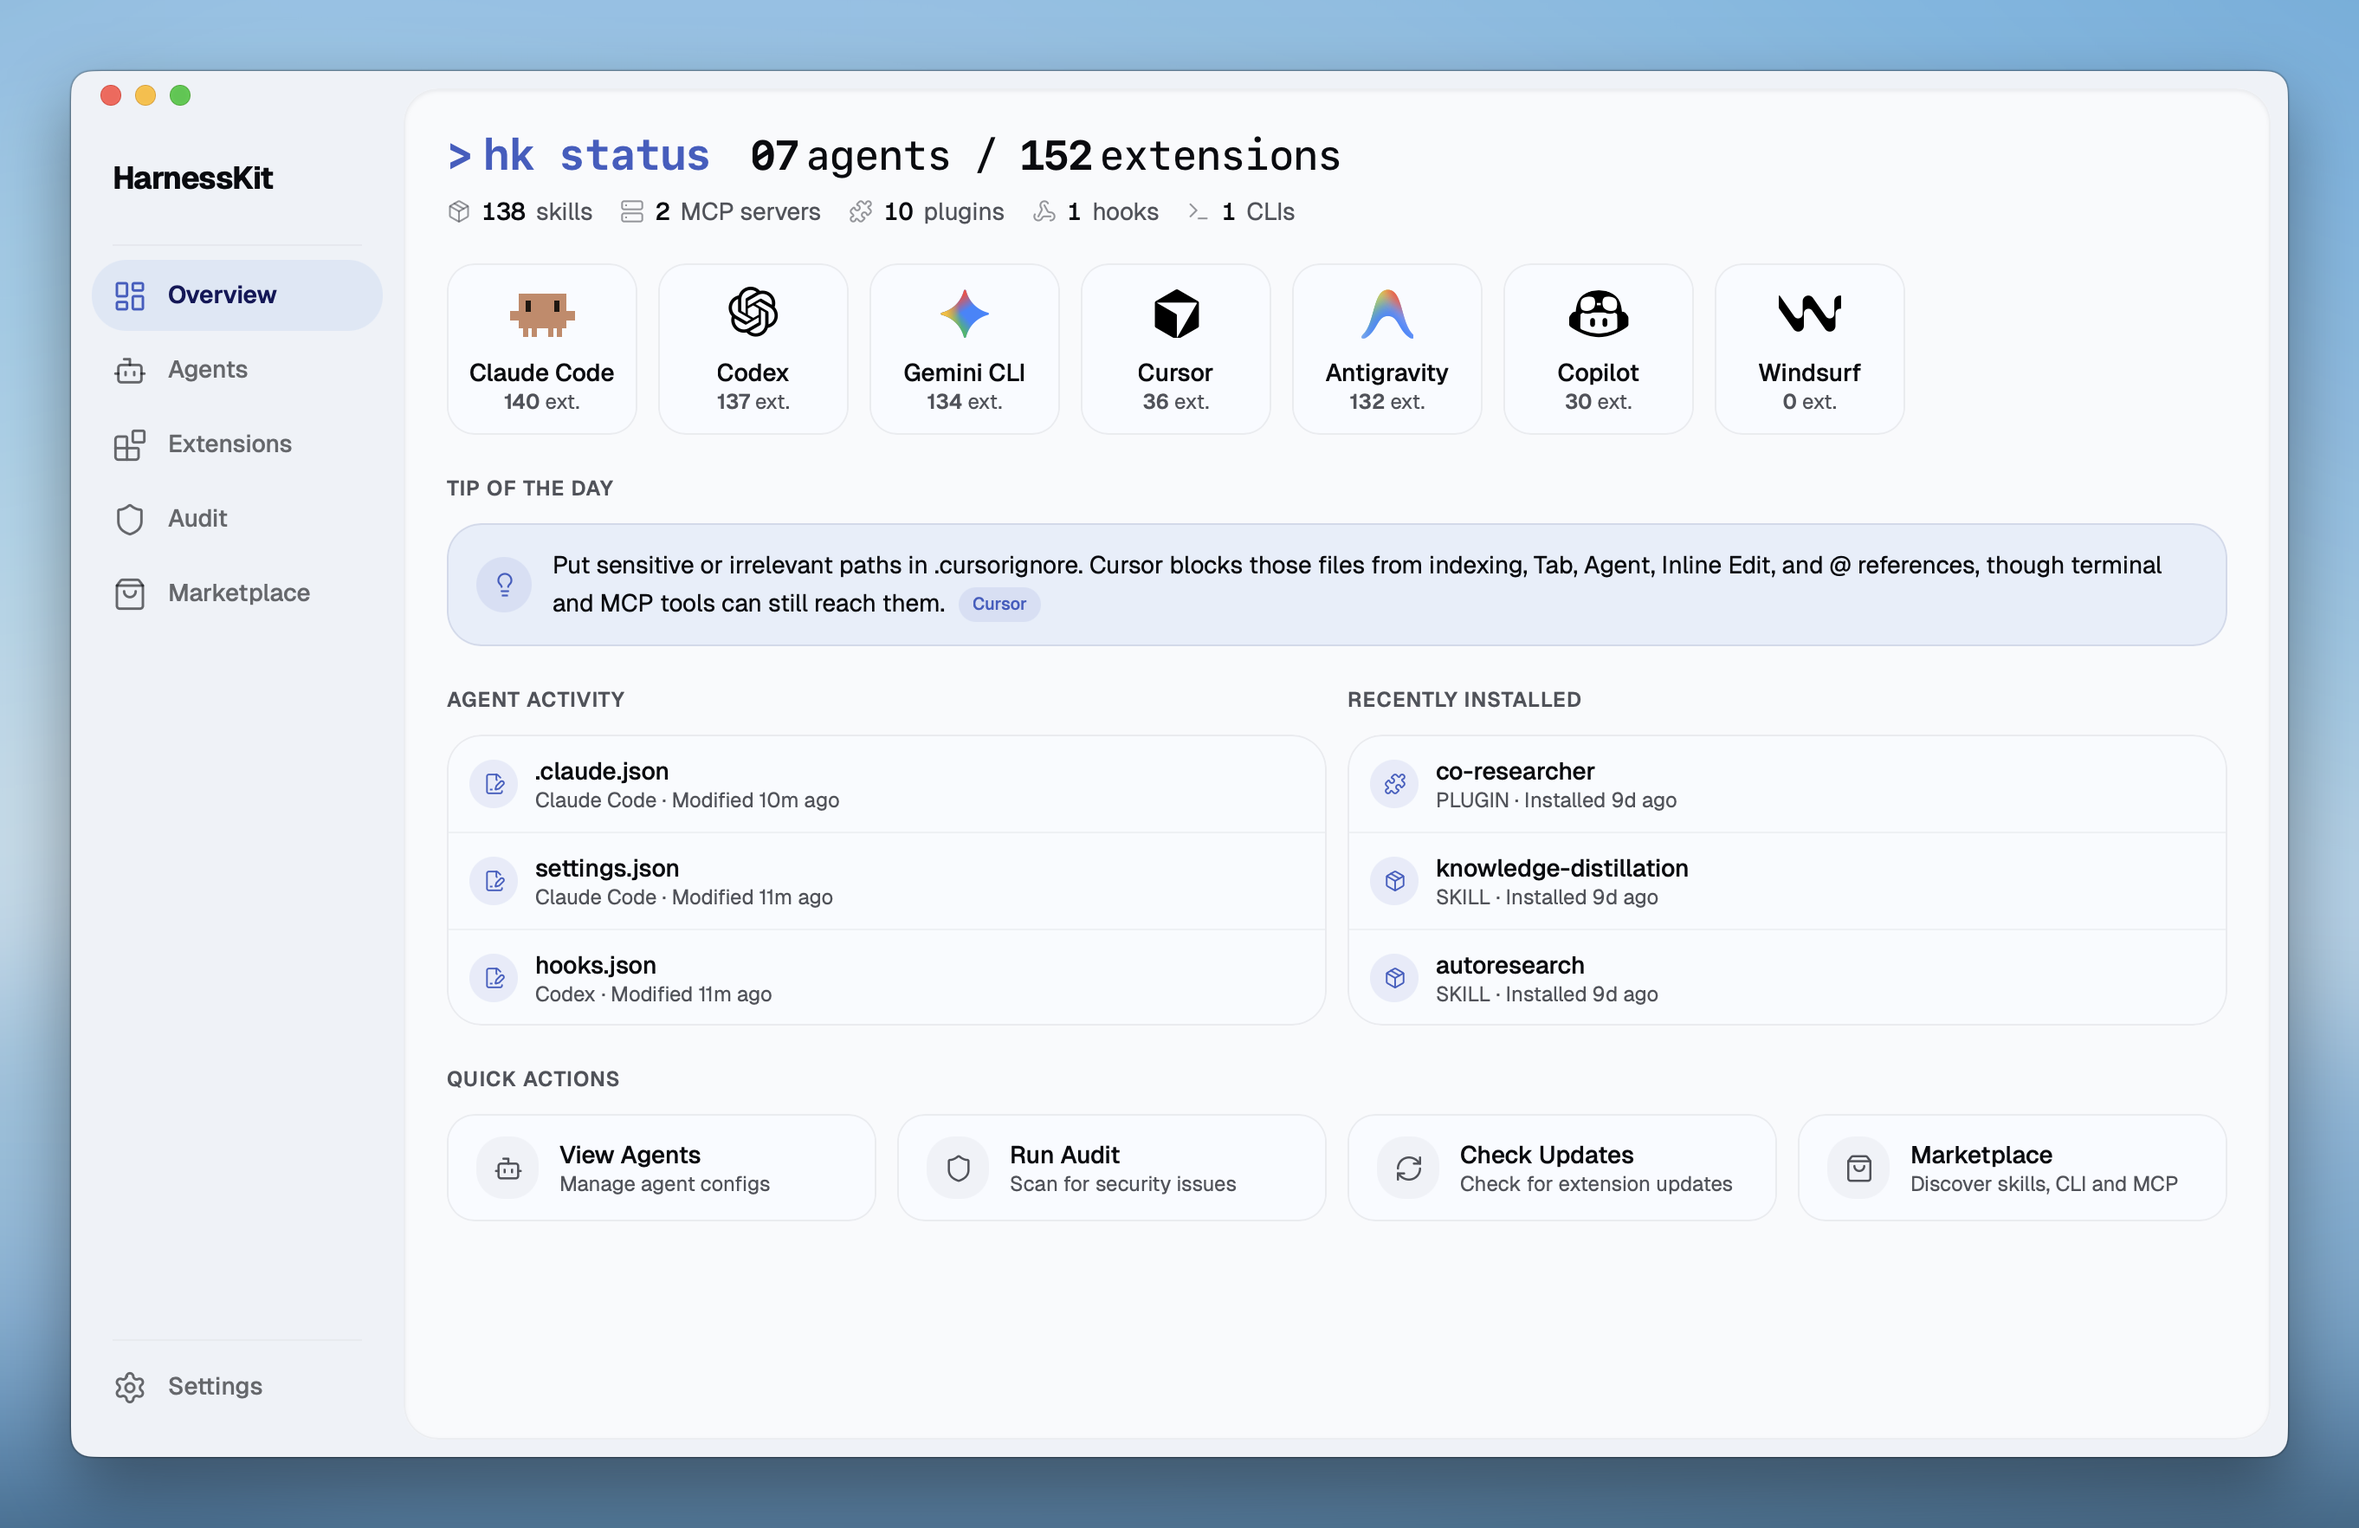
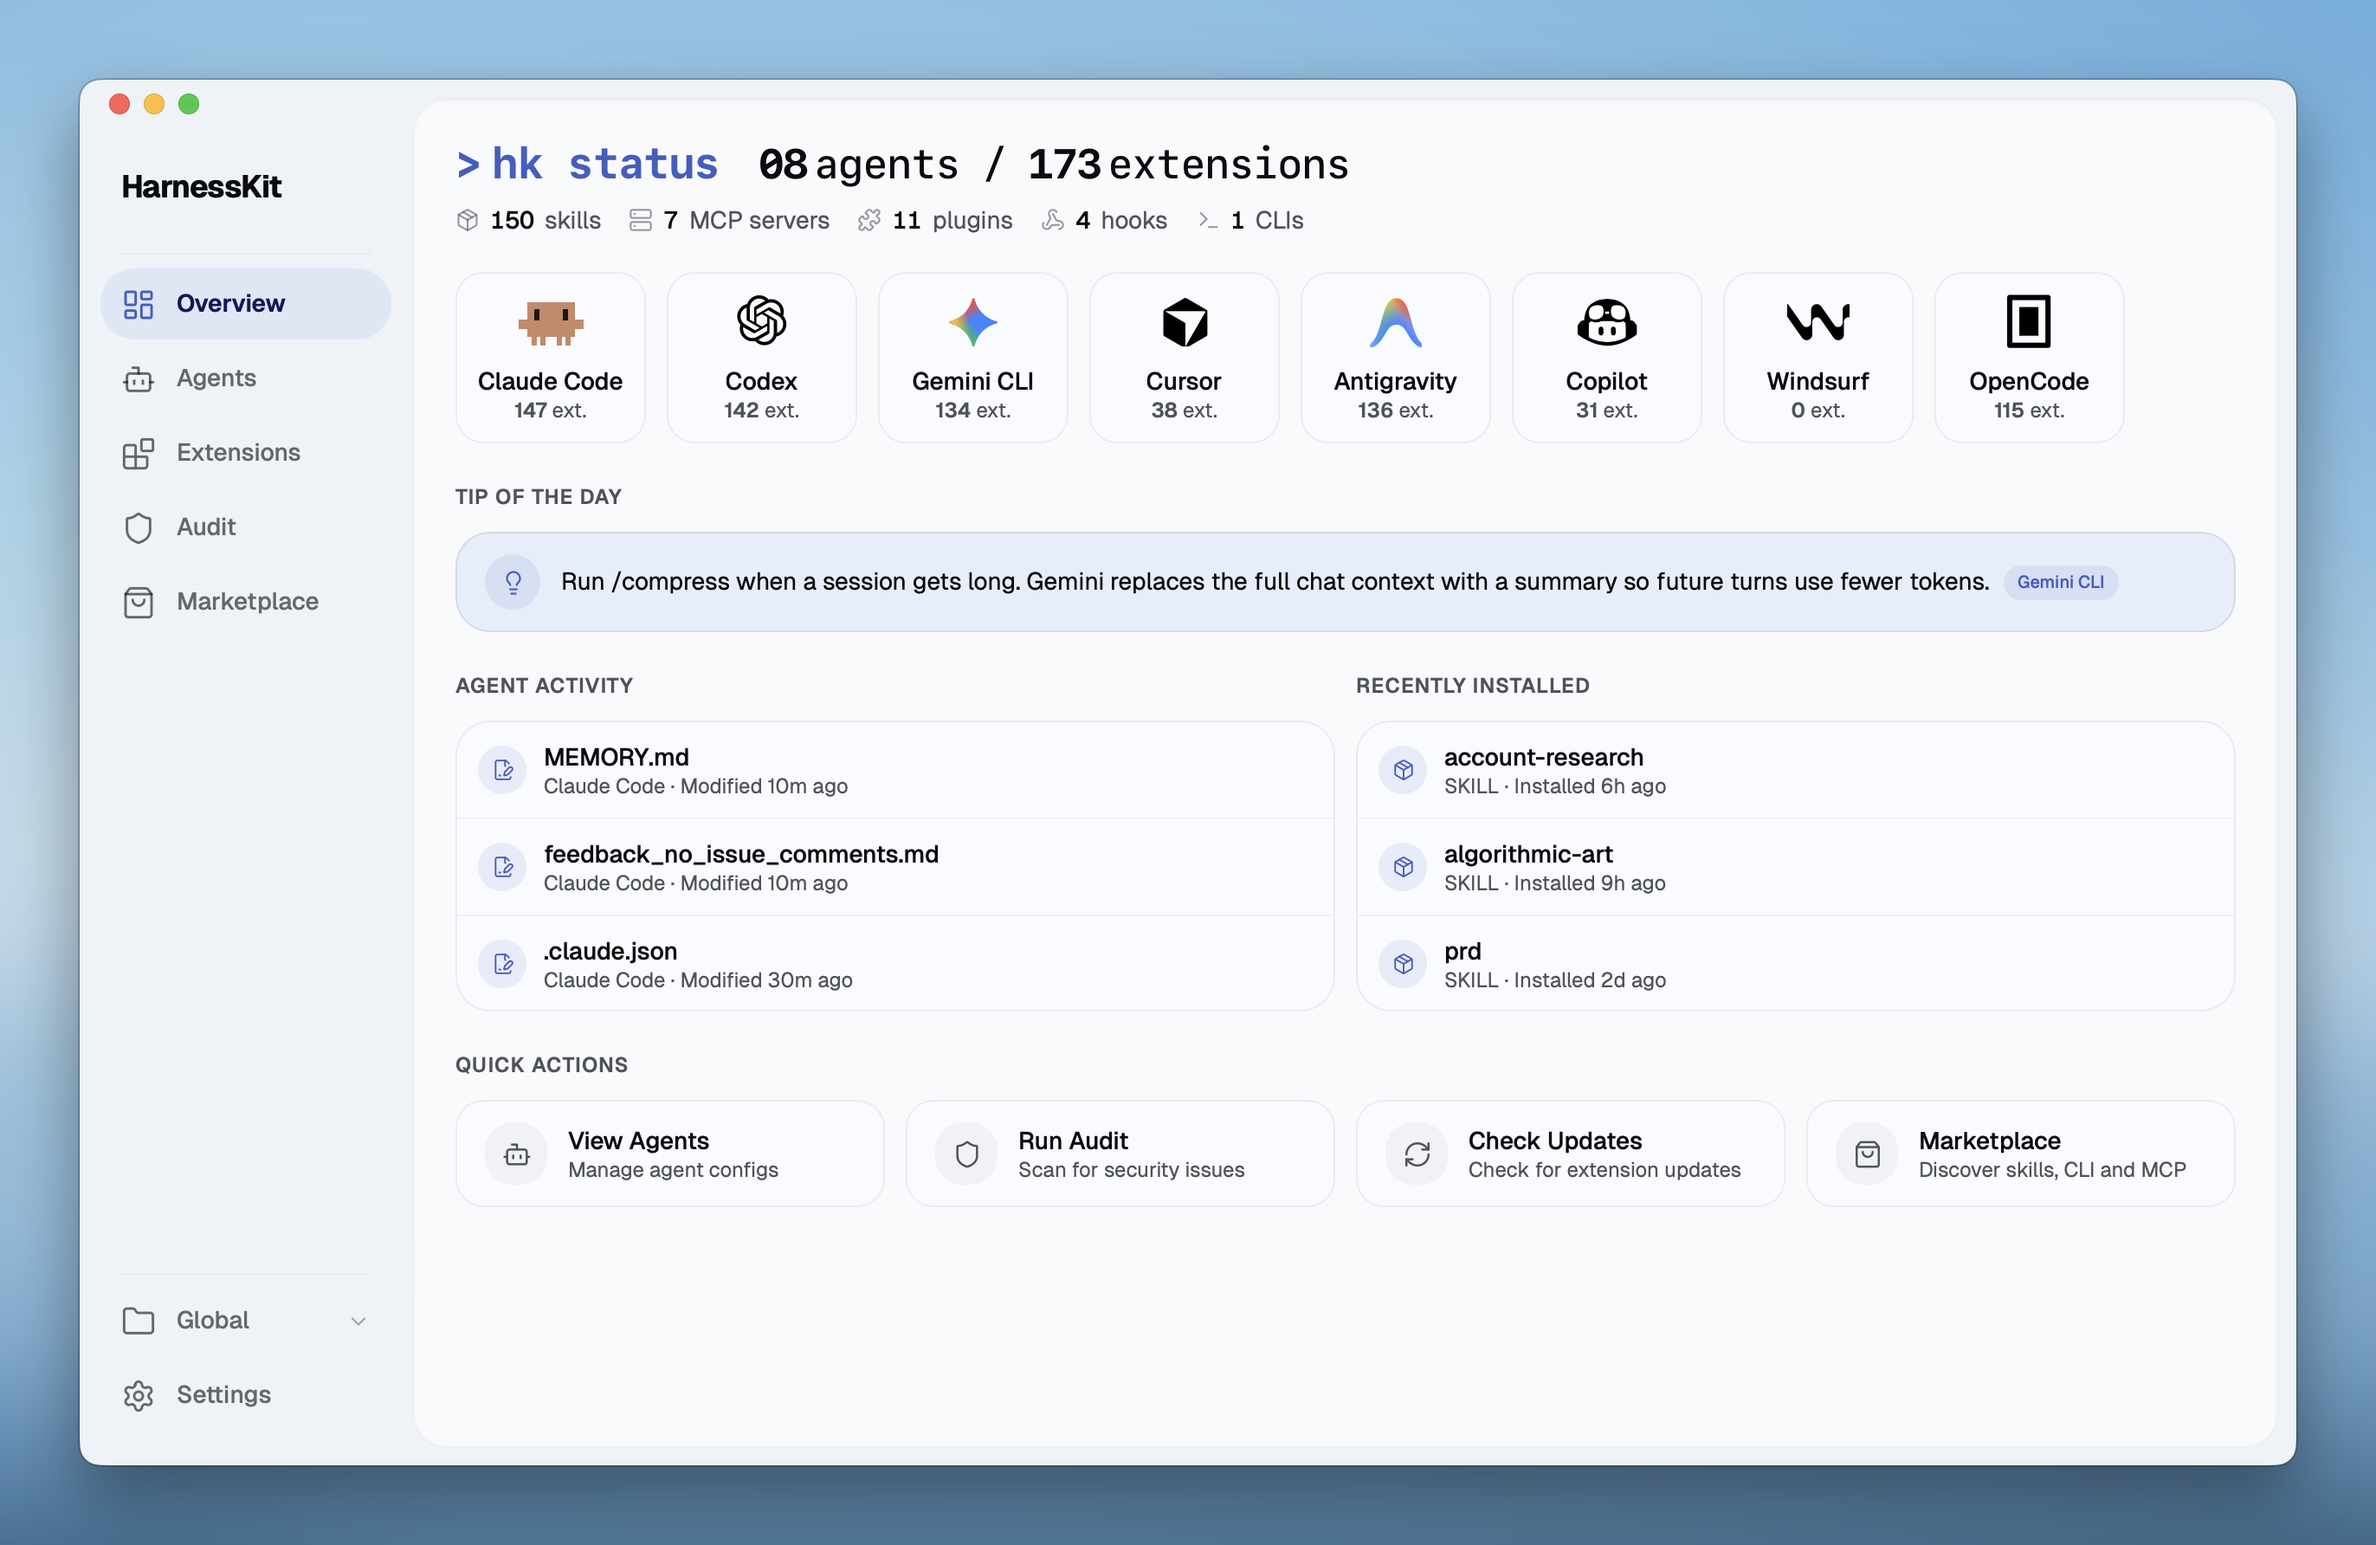
docs: refresh README for post-v1.3.1 features
- Project-Level Management section with two demo videos. v1.3.0
  shipped scope-aware filtering across Agents / Extensions / Audit
  but the README never advertised it as a top-level capability.
- Add "Subagents" to the Agent Configs intro line. v1.3.1's PR #42
  added project-level subagent scanning across 6 adapters; the
  feature was unmentioned despite being a new tracked file category
  surfaced as a dedicated dashboard section.
- Replace the hero animation (media/agents-animation.gif) with a
  new clip that shows the current 8-agent lineup including OpenCode.
- Replace the Overview screenshot (media/overview.png) with a fresh
  capture matching the current dashboard layout.

diff --git a/README.md b/README.md
@@ -77,7 +77,7 @@ HarnessKit manages **all five extension types** from a unified interface — **S
 
 ### 🤖 Agent Configs, Memory & Rules
 
-HarnessKit manages every agent's **Configs**, **Memory**, **Rules**, and **Ignore** files from one place. Currently supporting **8 agents**: **Claude Code**, **Codex**, **Gemini CLI**, **Cursor**, **Antigravity**, **Copilot**, **Windsurf**, and **OpenCode**.
+HarnessKit manages every agent's **Configs**, **Memory**, **Rules**, **Subagents**, and **Ignore** files from one place. Currently supporting **8 agents**: **Claude Code**, **Codex**, **Gemini CLI**, **Cursor**, **Antigravity**, **Copilot**, **Windsurf**, and **OpenCode**.
 
 - **Config file tracking** — Automatically discovers every agent's config files — both global and per-project. Add your project directories or custom paths and HarnessKit picks them up alongside the global ones.
 - **Per-agent dashboard** — Each agent gets its own page with all files organized by category, showing scope, path, file size, and a summary of installed extensions. Expand any file to preview its content right in the app.
@@ -117,6 +117,17 @@ Every listing shows its description, install count, and source. For skills, you 
 
 <p align="center">
   <video src="https://github.com/user-attachments/assets/a80e2c95-52fe-4cd5-aab1-bd01b4c224cf" width="800" autoplay loop muted playsinline></video>
+</p>
+
+---
+
+### 🔀 Project-Level Management
+
+The sidebar scope picker switches between **Global**, **All scopes**, or any registered project. Agents, Extensions, and Audit all filter by the active scope — the same skill installed in Global and in a project shows as two distinct entries, and per-project setups are managed independently of your global config.
+
+<p align="center">
+  <video src="https://github.com/user-attachments/assets/321fc4b6-4f6b-4f6e-a9eb-1b0084334cb2" width="800" autoplay loop muted playsinline></video>
+  <video src="https://github.com/user-attachments/assets/6392967a-e8a3-4805-9dc3-c4cf16f5c07f" width="800" autoplay loop muted playsinline></video>
 </p>
 
 ---
